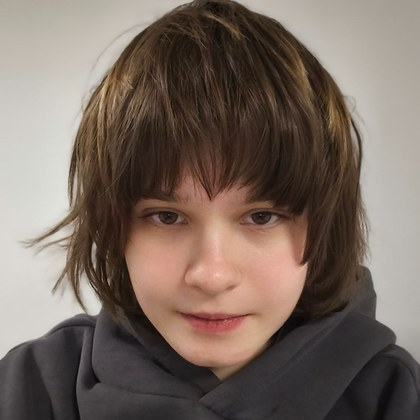
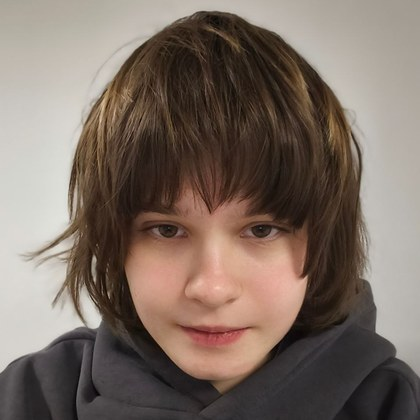
feat(deck): team tour animation; wider crops for Kira and Sofiia
On the team slide each card grows in turn, first to last and back,
while the slide is open; the others step back. Stops on leaving.

Claude-Session: https://claude.ai/code/session_01E6rQmba2r42MHZLCpao5h4

diff --git a/public/deck/js/deck.js b/public/deck/js/deck.js
@@ -35,6 +35,17 @@ $$('.slide h1, .slide h2').forEach(wrapWords);
 /* team photos: <div class="ava" data-photo="assets/team/name.jpg"> — the initial stays if the file is missing */
 $$('.ava[data-photo]').forEach(function (a) { var im = new Image(); im.onload = function () { a.style.backgroundImage = 'url("' + a.dataset.photo + '")'; a.classList.add('ph'); }; im.src = a.dataset.photo; });
 
+/* team slide: the cards light up one by one, first to last, then back, while the slide is open */
+var teamT = null;
+function teamTour(on) {
+  clearInterval(teamT); $$('.team .member').forEach(function (c) { c.classList.remove('hl'); });
+  var cards = $$('.slide.on .team .member'); if (!on || !cards.length || STATIC) return;
+  var seq = cards.map(function (c, i) { return i; }).concat(cards.slice(1, -1).map(function (c, i) { return cards.length - 2 - i; }));
+  var k = 0;
+  function tick() { cards.forEach(function (c, i) { c.classList.toggle('hl', i === seq[k % seq.length]); }); k++; }
+  setTimeout(function () { if (slides[cur].querySelector('.team')) { tick(); teamT = setInterval(tick, 1300); } }, 1200);
+}
+
 /* the cursor hides itself when the mouse rests (for screen recording) */
 var curT = null;
 addEventListener('mousemove', function () { root.classList.remove('nocursor'); clearTimeout(curT); curT = setTimeout(function () { root.classList.add('nocursor'); }, 1800); });
@@ -107,6 +118,7 @@ function show(n, k) {
   sec.textContent = s.dataset.sec || '';
   $$('[data-st]', s).forEach(function (e) { e.classList.remove('on'); });
   applyStep(STATIC ? nsteps(s) : Math.max(0, Math.min(k || 0, nsteps(s))), true);
+  teamTour(!!s.querySelector('.team'));
   if (history.replaceState) history.replaceState(null, '', location.pathname + location.search + '#' + (n + 1));
 }
 function next() { if (t0 === null) t0 = Date.now(); if (step < nsteps(slides[cur])) applyStep(step + 1); else if (cur < slides.length - 1) show(cur + 1, 0); }

diff --git a/public/deck/css/deck.css b/public/deck/css/deck.css
@@ -348,3 +348,9 @@ html[data-theme=light] .pi{background:#f3f6f8}
 .team .member>h3,.team .member>.role{display:none}
 .team .member .nm b{display:block;font-size:31px;line-height:1.15}
 .team .member .nm span{display:block;margin-top:10px;font-size:19px;font-weight:800;letter-spacing:1.2px;text-transform:uppercase;color:var(--acc);line-height:1.3}
+/* team tour: one card at a time grows, the others step back */
+.team .member{transition:transform .6s cubic-bezier(.2,.8,.2,1),opacity .6s,box-shadow .6s,border-color .6s}
+.team:has(.hl) .member{opacity:.55;transform:scale(.97)}
+.team .member.hl{opacity:1;transform:scale(1.08);border-color:var(--acc);box-shadow:0 0 0 4px var(--acc-soft),var(--shadow);z-index:2}
+.team .member .ava{transition:transform .6s cubic-bezier(.2,.8,.2,1)}
+.team .member.hl .ava{transform:scale(1.06)}
